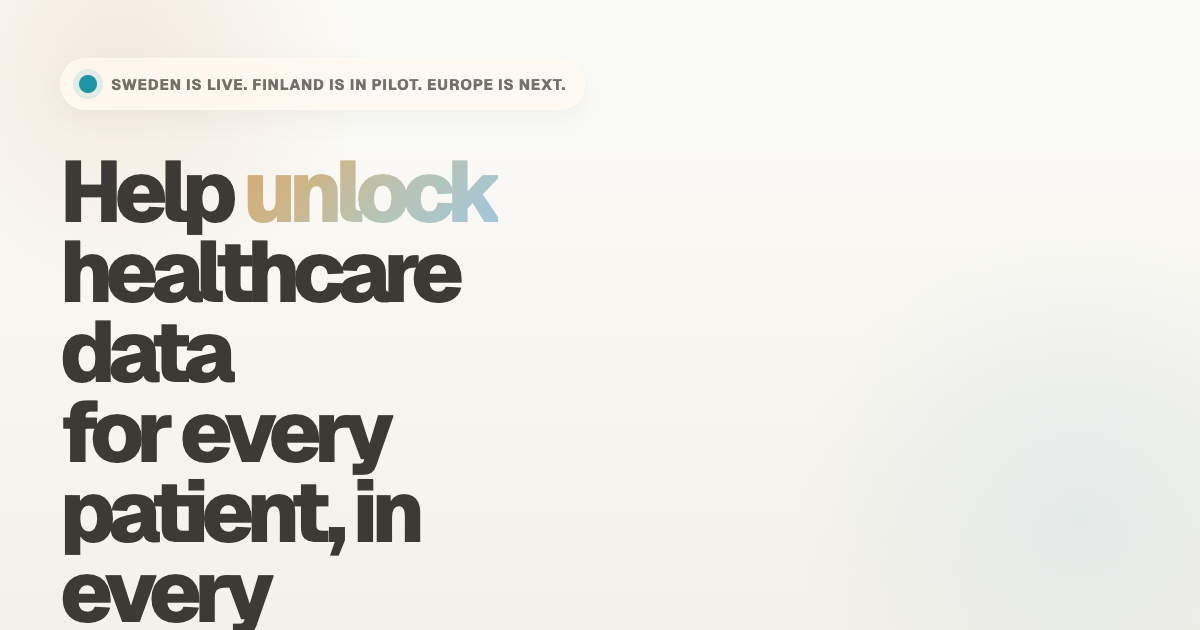
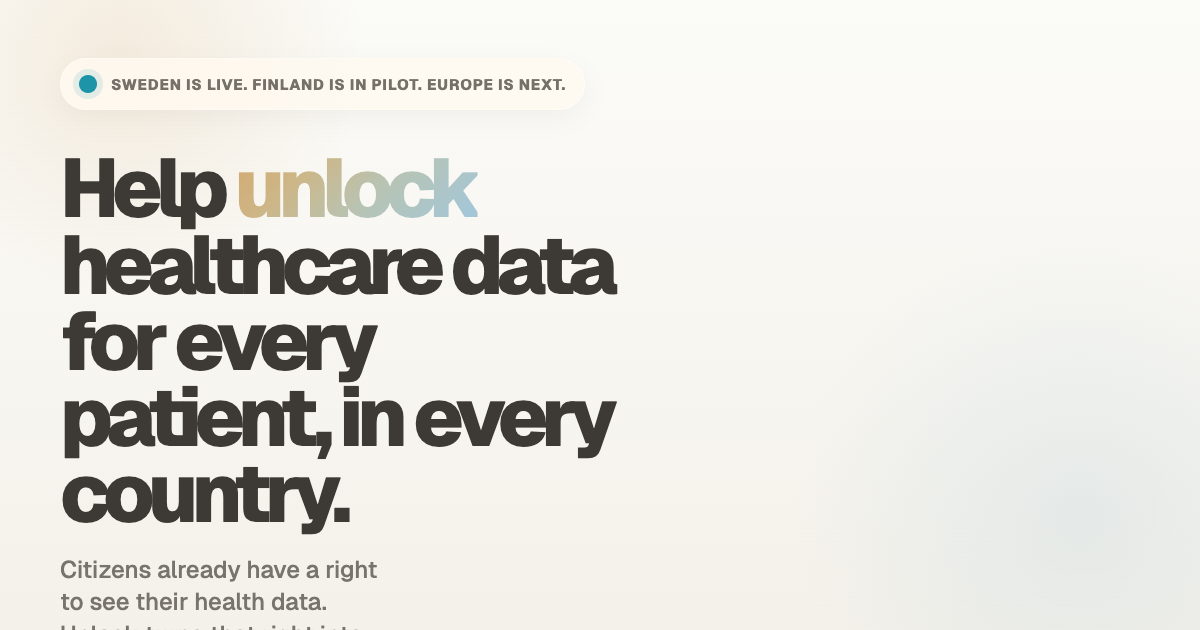
Tune social preview layout

Changed region(s): [[0.0308, 0.2413, 0.5242, 1.0]]

diff --git a/docs/og-preview.html b/docs/og-preview.html
@@ -75,9 +75,9 @@
         }
 
         h1 {
-            margin: 42px 0 24px;
-            max-width: 8.8ch;
-            font-size: 86px;
+            margin: 40px 0 22px;
+            max-width: 10ch;
+            font-size: 82px;
             line-height: 0.93;
             letter-spacing: -0.08em;
             font-weight: 800;
@@ -91,16 +91,16 @@
         }
 
         .lede {
-            max-width: 17ch;
+            max-width: 20ch;
             margin: 0;
             color: var(--muted);
-            font-size: 27px;
-            line-height: 1.34;
+            font-size: 24px;
+            line-height: 1.35;
             font-weight: 500;
         }
 
         .lede + .lede {
-            margin-top: 12px;
+            margin-top: 10px;
         }
     </style>
 </head>
